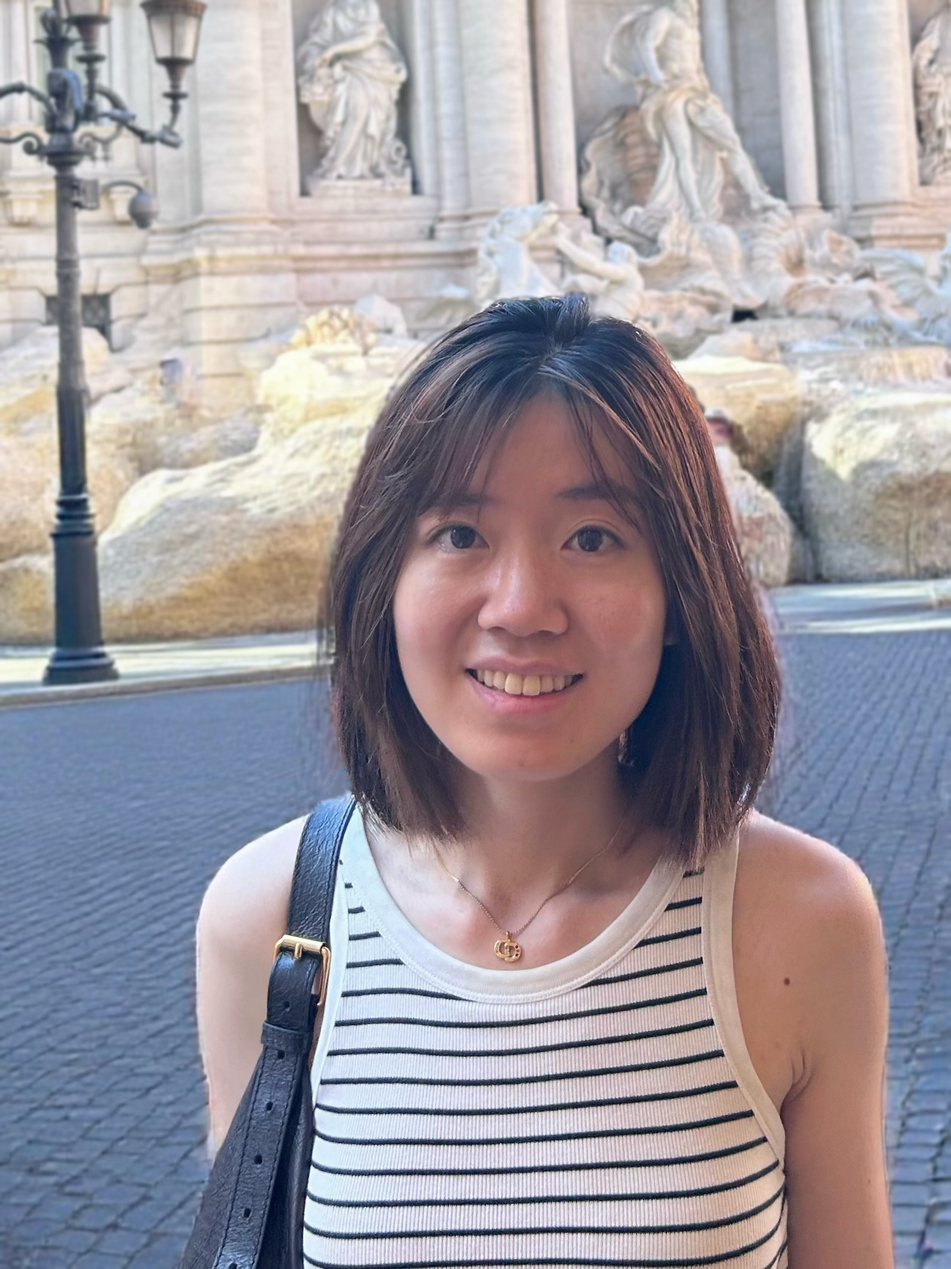
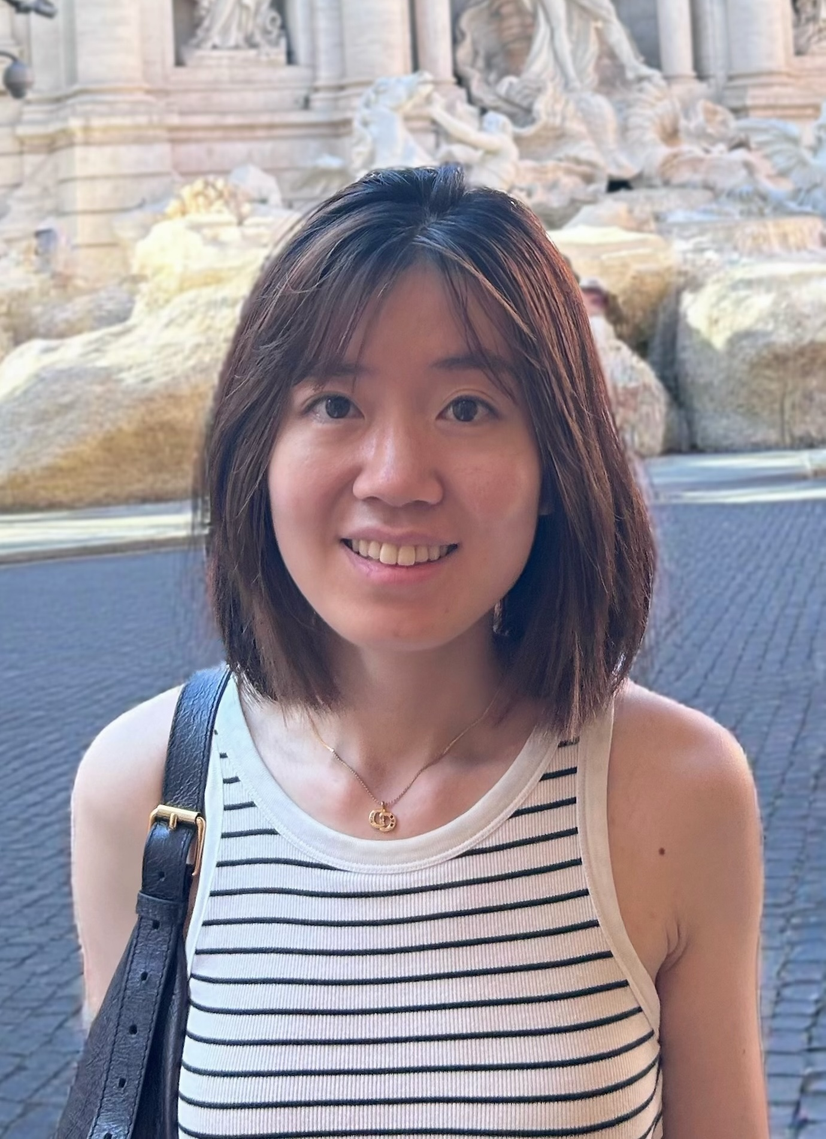
update

diff --git a/_pages/about.md b/_pages/about.md
@@ -2,7 +2,7 @@
 permalink: /
 title: "About Me"
 excerpt: "About me"
-description: "I am a Postdoctoral Research Associate in the Department of Mathematics at the University of Oxford. I completed my Ph.D. in IEOR at UC Berkeley in Summer 2025. My research interests are at the intersection of stochastic control, reinforcement learning, game theory, and machine learning.
+description: "I am a Departmental Lecturer in the Mathematical and Computational Finance Group at the University of Oxford. Before that, I completed my Ph.D. in IEOR at UC Berkeley in Summer 2025. My research interests are at the intersection of stochastic control, reinforcement learning, game theory, and machine learning.
 "
 
 
@@ -11,10 +11,10 @@ redirect_from:
   - /about/
   - /about.html
 ---
-I am a Postdoctoral Research Associate in the Department of Mathematics at the University of Oxford, and a member of the [Erlangen AI Hub](https://erlangenhub.ox.ac.uk){:target="_blank"}. 
-I completed my Ph.D. in [Industrial Engineering & Operations Research](https://ieor.berkeley.edu){:target="_blank"} at [UC Berkeley](https://www.berkeley.edu){:target="_blank"} in Summer 2025, advised by [Professor Xin Guo](https://xinguo.ieor.berkeley.edu/){:target="_blank"}. Prior to pursuing Ph.D., I earned a B.S. degree in  Mathematics at [New York University Shanghai](https://shanghai.nyu.edu){:target="_blank"} in 2020.
+I am a Departmental Lecturer in the Mathematical and Computational Finance Group at the University of Oxford. Before that, I was a Postdoctoral Research Associate in the Department of Mathematics at the University of Oxford, and a member of the [Erlangen AI Hub](https://erlangenhub.ox.ac.uk){:target="_blank"}. 
+I completed my Ph.D. in [Industrial Engineering & Operations Research](https://ieor.berkeley.edu){:target="_blank"} at [UC Berkeley](https://www.berkeley.edu){:target="_blank"} in Summer 2025, advised by [Professor Xin Guo](https://xinguo.ieor.berkeley.edu/){:target="_blank"}. Prior to pursuing Ph.D., I earned a B.S. degree in Mathematics at [New York University Shanghai](https://shanghai.nyu.edu){:target="_blank"} in 2020.
 
-My research interests are at the intersection of stochastic control, reinforcement learning, game theory, and machine learning, with applications to mathematical finance.
+My research interests include game theory, stochastic control, and reinforcement learning, with applications to mathematical finance.
 More specifically, my research tries to address the following challenges:
 
 - **Curse of Many Agents in Stochastic Dynamic Systems:**  
